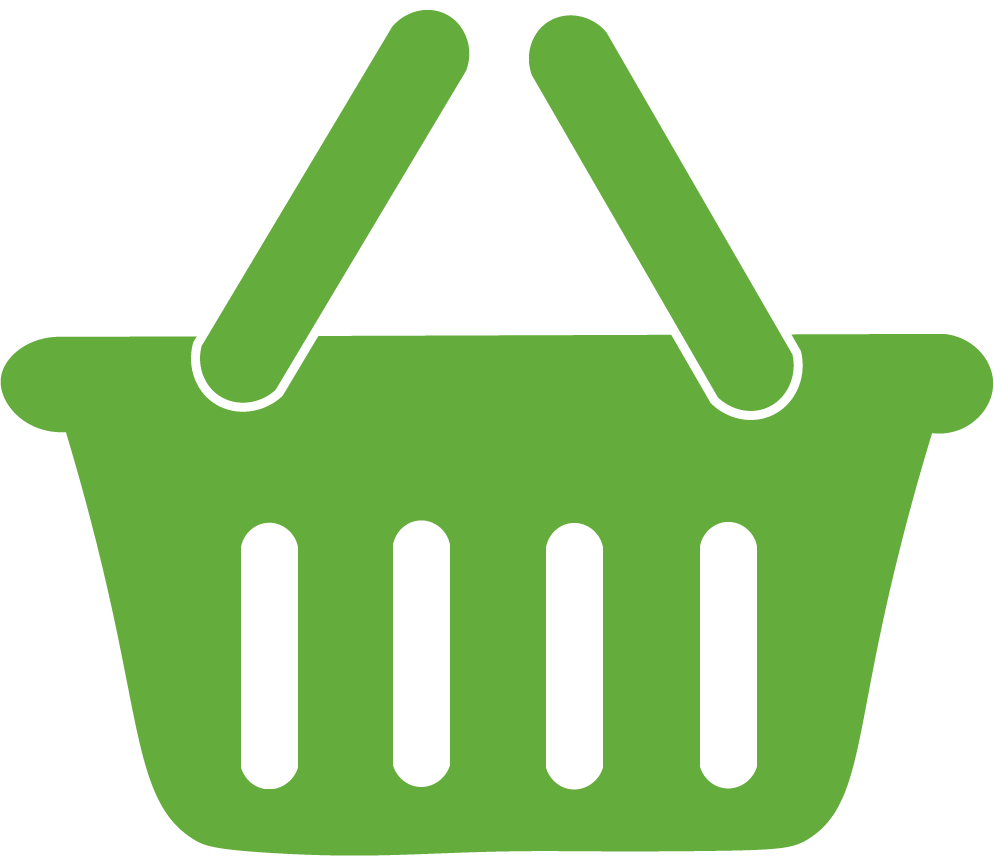
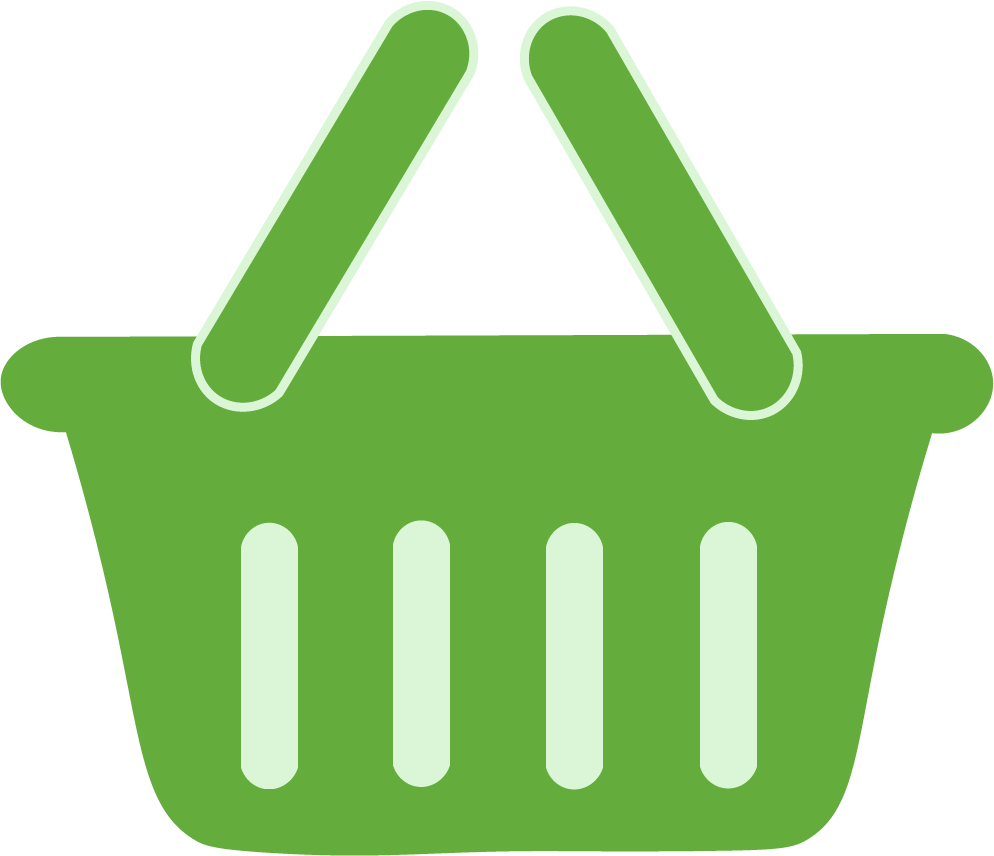
c

diff --git a/hygge.html b/hygge.html
@@ -24,7 +24,7 @@
             </ul>
         </nav>
         
-            <label class="kurv-img" for="kurv"><img src="/img/kurvlyseblaa.png" alt="Kurv blå"></label>
+            <label class="kurv-img" for="kurv"><img src="/img/kurv3.png" alt="Kurv blå"></label>
             <input id="kurv" type="checkbox">
     </header>
     <main>
